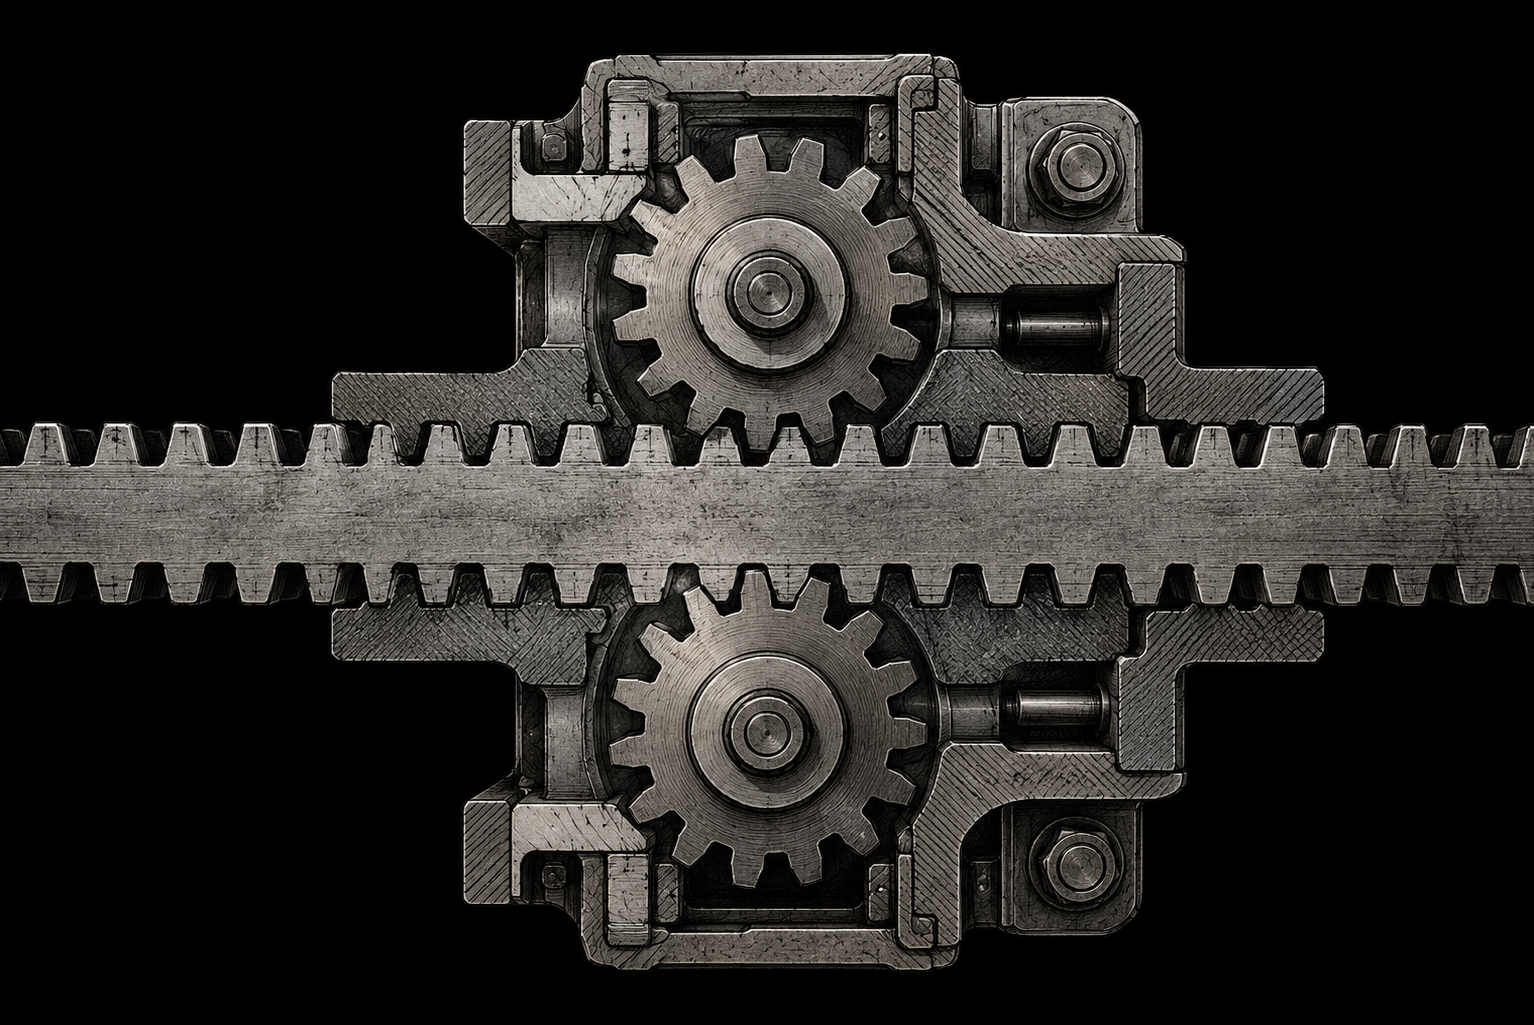
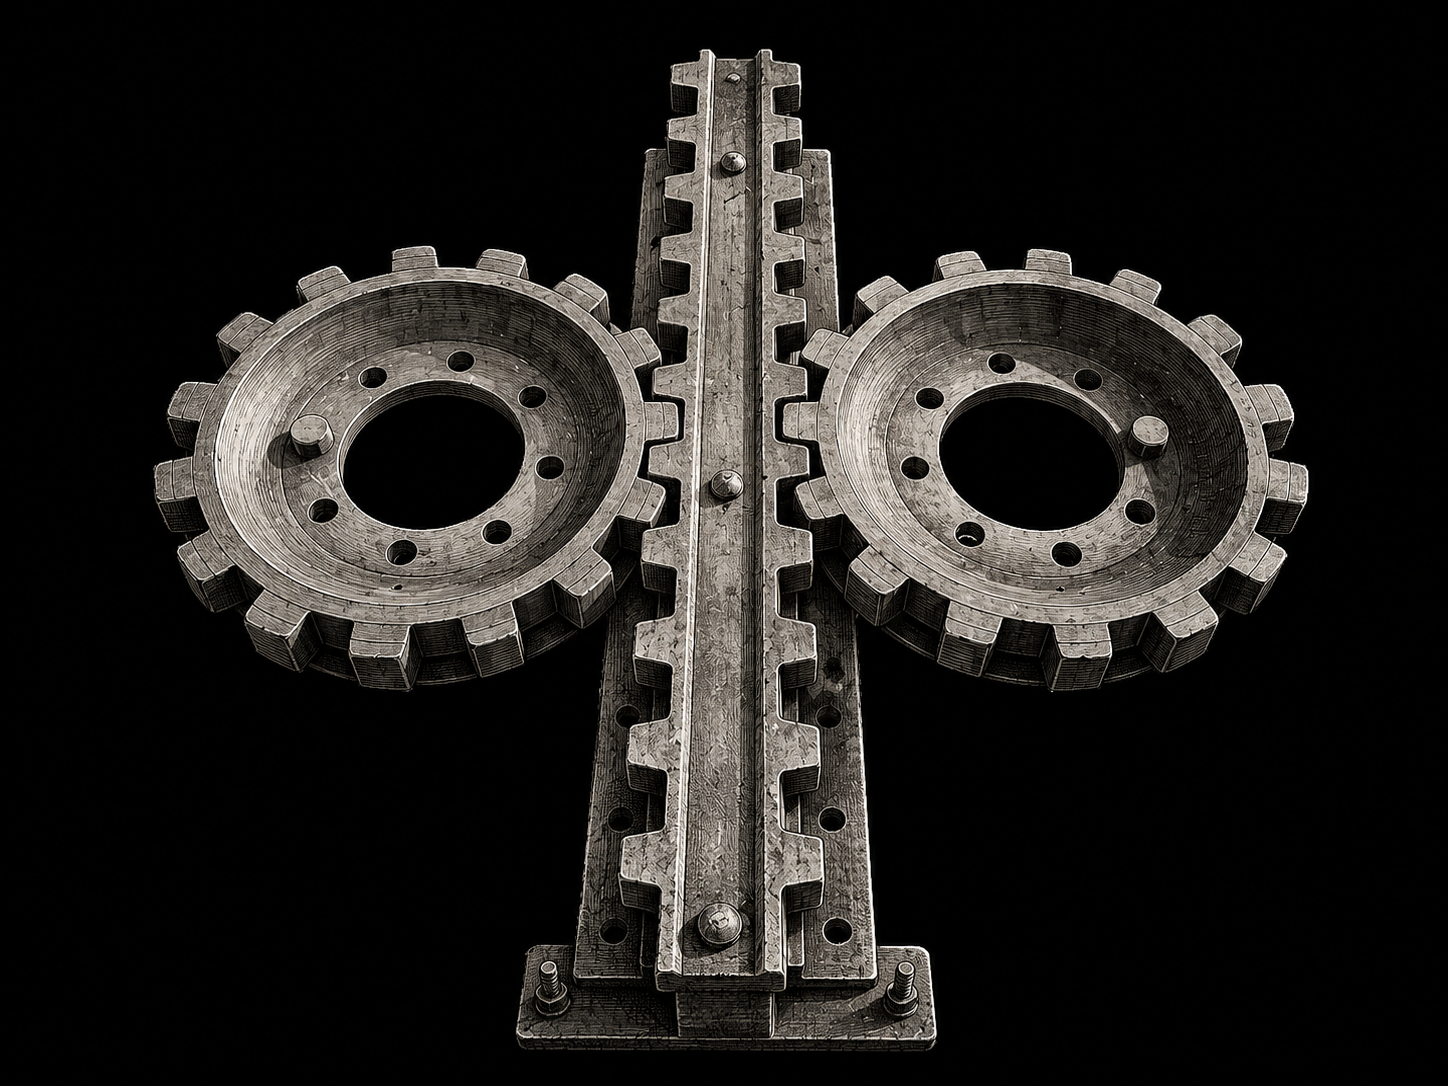
style: update riggenbach & locher + cleanup reader

diff --git a/src/components/ui/Badge.tsx b/src/components/ui/Badge.tsx
@@ -1,6 +1,6 @@
-import { ReactNode } from 'react';
+import { ReactNode, HTMLAttributes } from 'react';
 
-interface BadgeProps {
+interface BadgeProps extends HTMLAttributes<HTMLSpanElement> {
   children: ReactNode;
   variant?: 'dark' | 'light' | 'outline' | 'pine' | 'glacier';
   className?: string;
@@ -14,10 +14,11 @@ const variantStyles = {
   glacier: 'bg-glacier-light border border-iron-dark text-glacier',
 };
 
-export default function Badge({ children, variant = 'dark', className = '' }: BadgeProps) {
+export default function Badge({ children, variant = 'dark', className = '', ...props }: BadgeProps) {
   return (
     <span
       className={`inline-flex items-center gap-1 text-[11px] font-mono font-black uppercase tracking-widest px-2 py-0.5 ${variantStyles[variant]} ${className}`}
+      {...props}
     >
       {children}
     </span>

diff --git a/src/components/screens/DetailScreen.tsx b/src/components/screens/DetailScreen.tsx
@@ -192,12 +192,6 @@ export default function DetailScreen({ system, onBackToDashboard, onStartQuiz }:
                 </p>
               </div>
 
-              <div className="flex justify-center">
-                <span className="flex items-center justify-center h-8 w-8 bg-ink rounded-full">
-                  <ArrowDown size={18} strokeWidth={3} className="text-white" />
-                </span>
-              </div>
-
               <div className="bg-cement-light border-[3px] border-iron-dark shadow-hard-sm p-4">
                 <div className="flex items-center gap-2 mb-2">
                   <span className="flex items-center justify-center h-8 w-8 bg-pine border-2 border-iron-dark shrink-0">

diff --git a/src/components/screens/IntroScreen.tsx b/src/components/screens/IntroScreen.tsx
@@ -44,7 +44,7 @@ export default function IntroScreen({ onExplore, onSimulateError, onOpenSettings
             animate={{ opacity: 1, y: 0 }}
             transition={{ duration: 0.4 }}
           >
-            <Badge variant="dark" className="mb-4 text-[11px] px-2 py-1">
+            <Badge variant="dark" aria-hidden="true" className="mb-4 text-[11px] px-2 py-1">
               <HardHat size={12} className="text-primary-red" />
               {t('intro.badge')}
             </Badge>
@@ -77,7 +77,7 @@ export default function IntroScreen({ onExplore, onSimulateError, onOpenSettings
             ].map((stat) => (
               <div
                 key={stat.labelKey}
-                className="flex flex-col items-center text-center bg-cement-light border-[3px] border-iron-dark shadow-hard-sm p-3"
+                className="flex flex-col items-center text-center bg-cement-light border-[3px] border-iron-dark p-3"
               >
                 <stat.icon size={20} strokeWidth={2.5} className="text-primary-red mb-2" />
                 <span className="text-xl xs:text-2xl font-black tracking-tighter leading-none text-iron-dark">
@@ -105,7 +105,7 @@ export default function IntroScreen({ onExplore, onSimulateError, onOpenSettings
             aria-label={t('common.settings')}
             className="aspect-square h-16 shrink-0 flex items-center justify-center p-0"
           >
-            <SlidersHorizontal size={22} strokeWidth={3} className="text-iron-dark" />
+            <SlidersHorizontal size={22} strokeWidth={3} className="text-iron-dark" aria-hidden="true" />
           </Button>
         </div>
       </div>

diff --git a/src/components/screens/QuizScreen.tsx b/src/components/screens/QuizScreen.tsx
@@ -226,19 +226,19 @@ export default function QuizScreen({ systemId, onGoBackToDashboard, onQuizFinish
                   onClick={() => handleOptionClick(index)}
                   disabled={isFrozen}
                   aria-label={`Auswahl ${index + 1}: ${option}`}
-                  className={`group relative flex items-center w-full h-19 sm:h-21 text-left px-5 cursor-pointer border-[3px] transition-all duration-75 ${blockStyle} ${
+                  className={`group relative flex items-center w-full min-h-[4.75rem] sm:min-h-[5.25rem] py-3 text-left px-5 cursor-pointer border-[3px] transition-all duration-75 ${blockStyle} ${
                     isFrozen ? '' : 'shadow-hard active:translate-x-1 active:translate-y-1 active:shadow-none bg-cement-light hover:border-primary-red'
                   }`}
                 >
                   <span className={`font-mono font-black text-lg sm:text-xl mr-5 shrink-0 transition-colors ${numStyle}`}>
                     {labelNum}
                   </span>
-                  <span className="font-heading font-black text-base tracking-wide uppercase truncate">
+                  <span className="font-heading font-black text-base tracking-wide uppercase pr-10">
                     {option}
                   </span>
 
                   {isFrozen && isSelected && (
-                    <div className="absolute right-5 shrink-0">
+                    <div className="absolute right-5 top-1/2 -translate-y-1/2 shrink-0">
                       {isCorrectTarget ? (
                         <div className="bg-cement-light text-iron-dark border-2 border-iron-dark p-1 rounded-sm">
                           <Check size={16} strokeWidth={3} className="text-green-600" />

diff --git a/src/features/accessibility/useScreenReader.ts b/src/features/accessibility/useScreenReader.ts
@@ -34,8 +34,8 @@ export function extractAccessibleText(element: HTMLElement): string {
   // Clean up
   document.body.removeChild(clone);
 
-  // Replace layout newlines with an ellipsis and space to force a natural pause in TTS
-  return text.replace(/\n+/g, '... ');
+  // Replace layout newlines with a comma and space to force a natural pause in TTS without reading 'dot'
+  return text.replace(/\n+/g, ', ');
 }
 
 export function speakText(text: string, lang: string = 'en') {

diff --git a/src/components/layout/Header.tsx b/src/components/layout/Header.tsx
@@ -26,7 +26,7 @@ export default function Header({
       } ${className}`}
     >
       <Button variant="icon" size="sm" onClick={onBack} aria-label={backLabel}>
-        <ChevronLeft size={22} strokeWidth={3} className="text-iron-dark" />
+        <ChevronLeft size={22} strokeWidth={3} className="text-iron-dark" aria-hidden="true" />
       </Button>
 
       <h2 className="font-heading font-black text-xl tracking-tight uppercase flex-1 text-center">